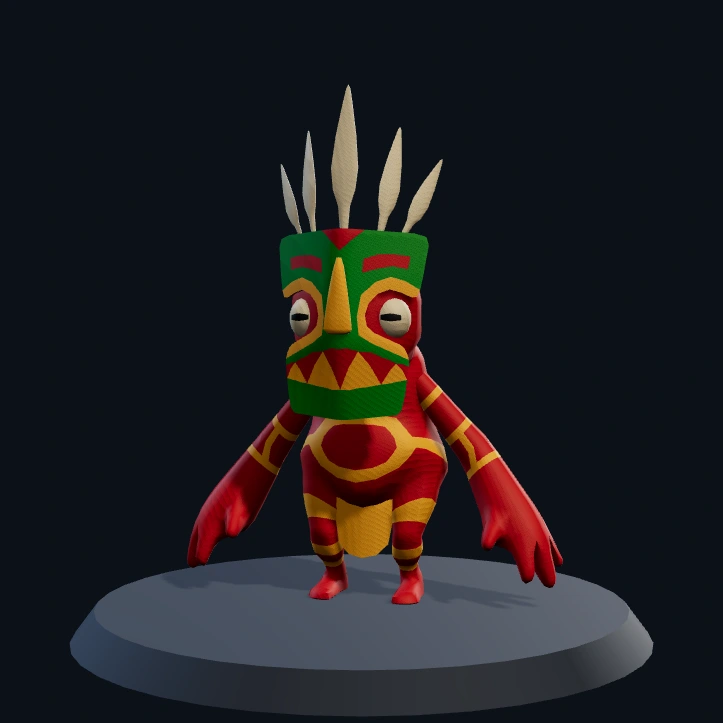
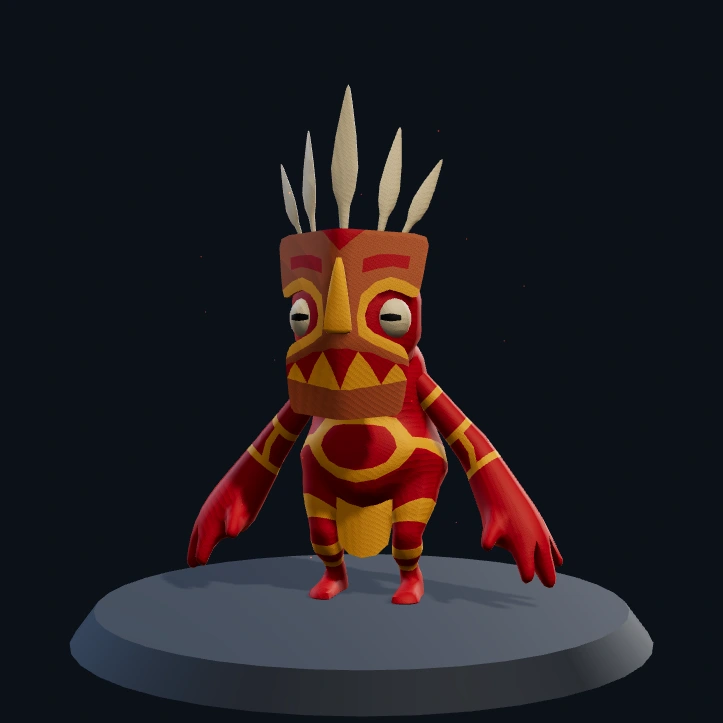
Polish fighter palettes, Gravehare blood trails and signature effects

Changed region(s): [[0.3651, 0.3043, 0.6086, 0.5781], [0.3347, 0.6999, 0.3651, 0.7303]]

diff --git a/assets/characters/fighter-finish.js b/assets/characters/fighter-finish.js
@@ -1,0 +1,130 @@
+// Surface treatments preserve the original UV artwork, eyes and animated rigs.
+// One bounded particle draw per fighter; no lights, textures or per-frame allocations.
+const LOOKS = {
+  tribal: { skin: 0xc56435, glow: 0xff793a, label: 'Ritual embers' },
+  bunny: { skin: 0xa07fba, glow: 0xb20d2b, label: 'Blood drips' },
+  'skull-orc': { skin: 0xb87a36, glow: 0xffc768, label: 'Bonefire sparks' },
+  'evolved-dragon': { skin: 0x4379c4, glow: 0xff6327, label: 'Dragon cinders' },
+  orc: { skin: 0xb32c48, glow: 0xf04478, label: 'Crimson ash' },
+  hulk: { skin: 0x568e32, glow: 0x80ea46, label: 'Gamma shimmer' },
+};
+
+export function finishMaterial(T, material, def) {
+  const look = LOOKS[def.id];
+  if (!look || def.id === 'hulk') return;
+  const time = { value: 0 };
+  material.userData.finishTime = time;
+  const blood = def.id === 'bunny';
+  material.onBeforeCompile = shader => {
+    shader.uniforms.fighterTime = time;
+    shader.uniforms.fighterSkin = { value: new T.Color(look.skin) };
+    shader.uniforms.fighterAccent = { value: new T.Color(look.glow) };
+    shader.vertexShader = 'varying vec3 fighterRest;\n' + shader.vertexShader;
+    shader.vertexShader = shader.vertexShader.replace('#include <begin_vertex>',
+      '#include <begin_vertex>\nfighterRest = position;');
+    shader.fragmentShader = `uniform float fighterTime;
+uniform vec3 fighterSkin;
+uniform vec3 fighterAccent;
+varying vec3 fighterRest;
+float bloodRun(vec3 p, float x, float start, float span, float phase) {
+  float tip = start - span * (.83 + .17 * sin(fighterTime * 1.4 + phase));
+  float bend = .012 * sin(p.y * 19.0 + phase);
+  float width = .018 + .018 * smoothstep(tip, start, p.y);
+  float line = 1.0 - smoothstep(width, width + .008, abs(p.x - x - bend));
+  float ends = smoothstep(tip - .02, tip + .025, p.y) * (1.0 - smoothstep(start, start + .06, p.y));
+  float bead = 1.0 - smoothstep(.02, .034, length(vec2(p.x - x - bend, (p.y - tip) * .7)));
+  return max(line * ends, bead);
+}
+` + shader.fragmentShader;
+    shader.fragmentShader = shader.fragmentShader.replace('#include <map_fragment>', `
+#include <map_fragment>
+// Select green/yellow-green pigment, not neutral bone, teeth or dark linework.
+vec3 originalPigment = diffuseColor.rgb;
+float greenMask = smoothstep(.012, .065, originalPigment.g - originalPigment.b)
+  * smoothstep(.0, .05, originalPigment.g - originalPigment.r * .86);
+float pigmentValue = max(max(originalPigment.r, originalPigment.g), originalPigment.b);
+diffuseColor.rgb = mix(originalPigment, fighterSkin * (.32 + pigmentValue * 1.55), greenMask);
+float fighterBlood = 0.0;
+${blood ? `
+vec3 bp = fighterRest;
+// Rest-space stains deform with the skin, never float above the face.
+fighterBlood = max(bloodRun(bp, -.22, 1.88, .82, .4), bloodRun(bp, .14, 1.87, .64, 2.0));
+fighterBlood = max(fighterBlood, bloodRun(bp, .46, 1.58, .52, 3.8));
+fighterBlood = max(fighterBlood, bloodRun(bp, -.48, 1.55, .43, 1.3));
+fighterBlood *= smoothstep(-.38, -.12, bp.z) * (1.0 - smoothstep(1.92, 1.98, bp.y));
+vec3 wetRed = mix(vec3(.15,.002,.009), vec3(.45,.006,.025), .5 + .5*sin(bp.y*31.0));
+diffuseColor.rgb = mix(diffuseColor.rgb, wetRed, fighterBlood * .96);
+` : ''}
+`);
+    if (blood) shader.fragmentShader = shader.fragmentShader.replace('#include <roughnessmap_fragment>',
+      '#include <roughnessmap_fragment>\nroughnessFactor = mix(roughnessFactor, .19, fighterBlood);');
+    else shader.fragmentShader = shader.fragmentShader.replace('#include <emissivemap_fragment>',
+      '#include <emissivemap_fragment>\ntotalEmissiveRadiance += fighterAccent * pow(1.0 - clamp(dot(normal, normalize(vViewPosition)), 0.0, 1.0), 3.0) * .085;');
+  };
+  material.customProgramCacheKey = () => 'fighter-finish-v1-' + def.id;
+  material.needsUpdate = true;
+}
+
+export function addSignatureEffect(T, group, def) {
+  const look = LOOKS[def.id];
+  if (!look) return;
+  const blood = def.id === 'bunny', count = blood ? 7 : 16;
+  const geometry = new T.BufferGeometry();
+  const positions = new Float32Array(count * 3), seeds = new Float32Array(count);
+  for (let i=0; i<count; i++) seeds[i] = (i + .5) / count;
+  geometry.setAttribute('position', new T.BufferAttribute(positions, 3));
+  geometry.setAttribute('seed', new T.BufferAttribute(seeds, 1));
+  const reduced = window.matchMedia('(prefers-reduced-motion: reduce)').matches;
+  const material = new T.ShaderMaterial({
+    uniforms: { tint: {value:new T.Color(look.glow)}, blood: {value:blood ? 1 : 0} },
+    vertexShader: `attribute float seed; varying float fade; uniform float blood;
+      void main(){ vec4 p=modelViewMatrix*vec4(position,1.0);gl_Position=projectionMatrix*p;
+        gl_PointSize=clamp((blood>.5?10.0:9.0)/max(.5,-p.z),1.5,11.0);
+        fade=.35+.65*seed; }`,
+    fragmentShader: `uniform vec3 tint; uniform float blood; varying float fade;
+      void main(){ vec2 p=gl_PointCoord-.5; p.x*=mix(1.0,1.65,blood);
+        float a=1.0-smoothstep(.12,.48,length(p));if(a<.015)discard;
+        gl_FragColor=vec4(tint,a*fade*mix(.58,.92,blood)); }`,
+    transparent:true, depthWrite:false, toneMapped:false,
+    blending: blood ? T.NormalBlending : T.AdditiveBlending,
+  });
+  const particles = new T.Points(geometry, material);
+  particles.name = 'SignatureEffect'; particles.frustumCulled = false;
+  particles.userData.signatureEffect = look.label;
+  group.add(particles);
+  const clocks = [];
+  group.traverse(o => {
+    const materials = o.material ? (Array.isArray(o.material) ? o.material : [o.material]) : [];
+    materials.forEach(m => { if(m.userData.finishTime) clocks.push(m.userData.finishTime); });
+  });
+  const update = t => {
+    if(reduced) t=1.2;
+    clocks.forEach(clock => {clock.value=t;});
+    for(let i=0;i<count;i++) {
+      const seed=seeds[i], phase=(t*(blood?.29:.18)+seed)%1;
+      const angle=seed*39.6+t*.26, radius=.23+seed*.14;
+      positions[i*3]=blood ? (i%2 ? -.045 : .034)+Math.sin(i*2.1)*.025 : Math.cos(angle)*radius;
+      positions[i*3+1]=blood ? .48-phase*.44 : .045+phase*.68;
+      positions[i*3+2]=blood ? .125+seed*.028 : Math.sin(angle)*radius;
+      if(def.id==='tribal') {
+        positions[i*3]=Math.cos(angle+phase*5)*radius;
+        positions[i*3+2]=Math.sin(angle+phase*5)*radius;
+      } else if(def.id==='evolved-dragon') {
+        positions[i*3]*=1.25;
+        positions[i*3+1]=.16+phase*.55;
+      } else if(def.id==='orc') {
+        positions[i*3+1]=.72-phase*.62;
+        positions[i*3]+=Math.sin(phase*6+seed)*.06;
+      } else if(def.id==='hulk') {
+        positions[i*3]=(i%2?1:-1)*(.24+Math.sin(angle)*.055);
+        positions[i*3+1]=.3+Math.cos(angle)*.12;
+        positions[i*3+2]=.13+Math.sin(angle)*.075;
+      }
+    }
+    geometry.attributes.position.needsUpdate=true;
+  };
+  (group.userData.cosAnim ||= []).push(update);
+  group.userData.signatureEffect=look.label;
+  group.userData.effectParticleCount=count;
+  update(1.2);
+}

diff --git a/index.html b/index.html
@@ -14,7 +14,7 @@
 <!-- Which build is actually loaded. Stamped by build.js from a hash of the
      source, and shown in the pause panel, so "did my update land?" is a
      question anyone can answer on their phone in two taps. -->
-<meta name="build" content="six-roster-20260923">
+<meta name="build" content="fighter-finish-20260923">
 <meta name="description" content="Bomber Fan — a 3D local-multiplayer bomber game. One human, three bots, six themed maps. Works offline.">
 <!-- Added to a phone's home screen it launches full-screen, with no browser
      chrome eating the landscape height the arena needs. -->
@@ -2787,6 +2787,7 @@
 <script type="module">
 import * as THREE from './assets/vendor/three.module.min.js';
 import { createHulk } from './assets/characters/hulk.js';
+import { finishMaterial, addSignatureEffect } from './assets/characters/fighter-finish.js';
 (function () {
 'use strict';
 
@@ -3278,10 +3279,10 @@ const PLAYER_CATALOG = [
   { id: 'evolved-dragon', name: 'Deadwing', color: 0xe85e26, belly: 0x82fff4, trim: 0xc6320f, accent: 0x07667c,
     model: 'assets/characters/evolved-dragon.gltf', portrait: 'assets/portraits/evolved-dragon.webp', expression: 'Headbutt', altExpression: 'Yes', personality: 'fierce', flying: true,
   },
-  { id: 'skull-orc', name: 'Skullcrusher', color: 0x76952c, belly: 0xf3dfb9, trim: 0xc0a383, accent: 0x4f7520,
+  { id: 'skull-orc', name: 'Skullcrusher', color: 0xb87a36, belly: 0xf3dfb9, trim: 0x58402c, accent: 0xffc768,
     model: 'assets/characters/skull-orc.gltf', portrait: 'assets/portraits/skull-orc.webp', expression: 'Punch', altExpression: 'Weapon', personality: 'fierce',
   },
-  { id: 'orc', name: 'Goregrin', color: 0x7b9620, belly: 0xdfffb8, trim: 0xa7c057, accent: 0x315f24,
+  { id: 'orc', name: 'Goregrin', color: 0xb32c48, belly: 0xf7b8b8, trim: 0x30232b, accent: 0xf04478,
     model: 'assets/characters/orc.gltf', portrait: 'assets/portraits/orc.webp', expression: 'Yes', altExpression: 'Weapon', personality: 'sly',
   },
   { id: 'fish-monster', name: 'Gill', color: 0x48adc8, belly: 0x8df5e5, trim: 0x016c99, accent: 0x15658d,
@@ -8855,6 +8856,7 @@ const CharacterModels = (() => {
     }
     copy.flatShading = false;
     copy.dithering = true;
+    finishMaterial(RT.THREE, copy, def);
     copy.needsUpdate = true;
     return copy;
   }
@@ -9020,6 +9022,7 @@ const CharacterModels = (() => {
       aura.position.y = 0.5; aura.visible = false; group.add(aura);
       group.userData.aura = aura;
       group.userData.modelPromise = Promise.resolve(true);
+      addSignatureEffect(THREE, group, def);
       return group;
     }
     const group = new THREE.Group();
@@ -9089,6 +9092,7 @@ const CharacterModels = (() => {
       group.userData.personality = def.personality || 'playful';
       group.userData.personalityRig = !!(controller && controller.hasExpressiveHead);
       group.userData.animationCount = gltf.animations.length;
+      addSignatureEffect(THREE, group, def);
       group.userData.modelReady = true;
       return true;
     }).catch(error => {

diff --git a/tests/roster-quality.html b/tests/roster-quality.html
@@ -17,6 +17,8 @@ const frame=document.querySelector('iframe'), report=document.querySelector('#re
   if(audit?.failures.length)failures.push(...audit.failures);
   if(A.PLAYER_DEFS.length!==6)failures.push('roster is not six');
   if(A.Game.opts.difficulty!=='normal')failures.push('default is not normal');
+  if(!g.preview.mesh.userData.signatureEffect)failures.push(`${id}: missing signature effect`);
+  if(g.preview.mesh.userData.effectParticleCount>16)failures.push(`${id}: effect exceeds particle budget`);
   const r=g.preview;
   const canvas=A.World.renderer.domElement;
   A.Game._renderPreview();

diff --git a/sw.js b/sw.js
@@ -12,6 +12,7 @@ const ASSETS = [
   new URL('./Main Logo.png', self.registration.scope).href,
   new URL('./assets/vendor/character-bootstrap.js', self.registration.scope).href,
   new URL('./assets/characters/hulk.js', self.registration.scope).href,
+  new URL('./assets/characters/fighter-finish.js', self.registration.scope).href,
   new URL('./assets/vendor/three.module.min.js', self.registration.scope).href,
   new URL('./assets/vendor/three.core.min.js', self.registration.scope).href,
   new URL('./assets/vendor/GLTFLoader.js', self.registration.scope).href,
